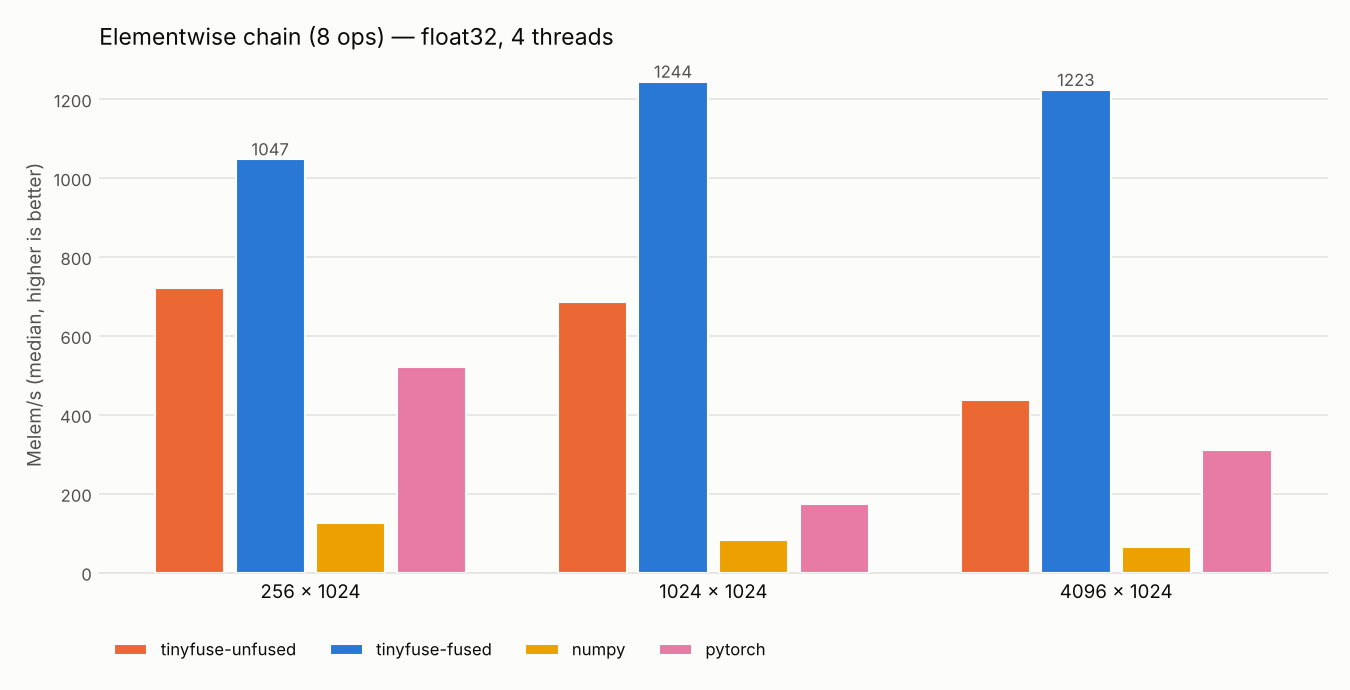
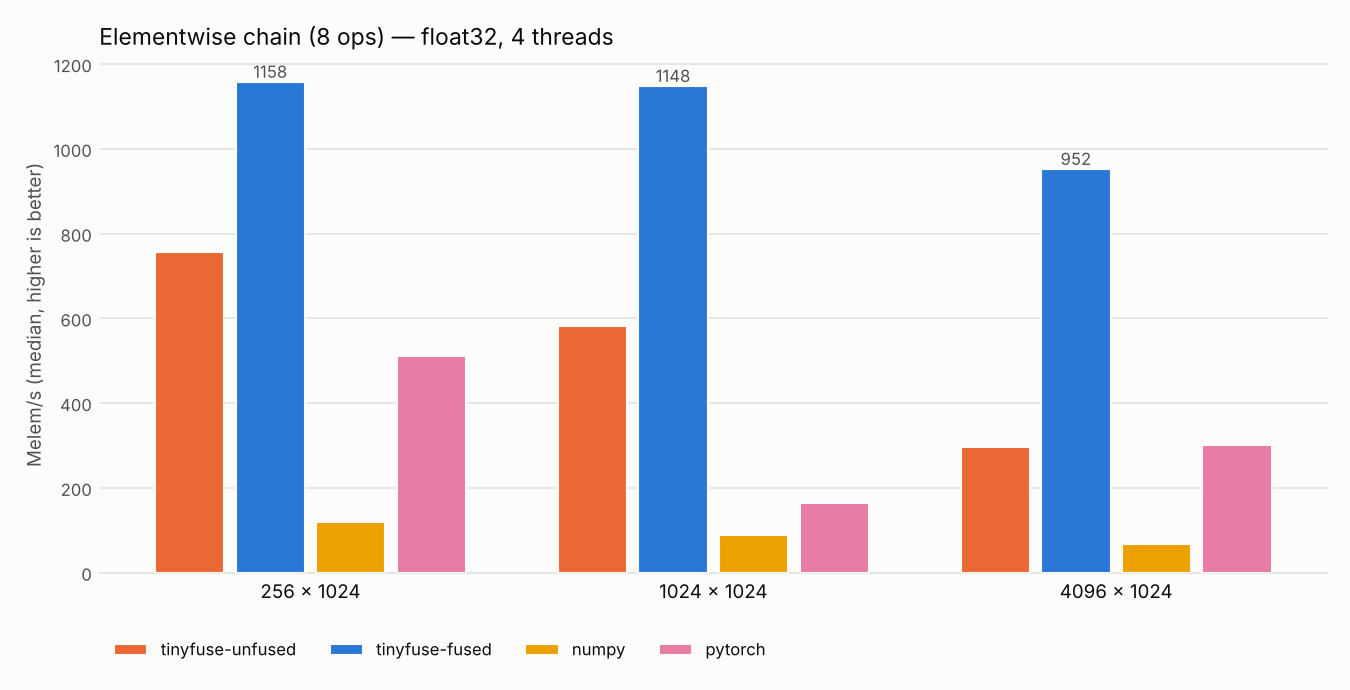
Refresh 4-thread benchmarks after parallel matmul rewrite; document it

diff --git a/README.md b/README.md
@@ -274,18 +274,18 @@ OpenBLAS and PyTorch's) kept fighting each other for the 4 cores.
 
 | ms per call, 4 threads | unfused | fused | fused+tuned | NumPy | PyTorch |
 |---|---:|---:|---:|---:|---:|
-| MLP 16 × 256→1024→256 | 0.191 | 0.173 | 0.173 | 0.206 | **0.096** |
-| MLP 64 × 512→2048→512 | 2.090 | 2.110 | 2.117 | 1.445 | **0.817** |
-| MLP 256 × 1024→4096→1024 | 15.81 | 16.22 | 16.51 | 16.71 | **9.80** |
-| Transformer seq 64, d 256 | 1.036 | 1.031 | 1.014 | 1.449 | **0.806** |
-| Transformer seq 128, d 512 | 5.148 | 4.615 | 5.264 | 8.553 | **3.133** |
-| Transformer seq 256, d 768 | 17.05 | 16.47 | 15.66 | 25.61 | **12.03** |
+| MLP 16 × 256→1024→256 | 0.163 | 0.151 | 0.129 | 0.196 | **0.101** |
+| MLP 64 × 512→2048→512 | 1.150 | 1.159 | 1.271 | 1.404 | **0.810** |
+| MLP 256 × 1024→4096→1024 | 14.93 | 15.09 | 14.12 | 17.30 | **10.84** |
+| Transformer seq 64, d 256 | 0.823 | **0.766** | 0.786 | 1.329 | 0.862 |
+| Transformer seq 128, d 512 | 3.810 | 3.811 | 4.345 | 8.669 | **2.865** |
+| Transformer seq 256, d 768 | 18.42 | 17.20 | 15.44 | 26.65 | **11.02** |
 
-Multithreaded, PyTorch wins every row, by 1.3 to 2.6 times. tinyfuse beats
-NumPy on five of the six rows (1.2 to 1.9 times), and loses on the medium MLP.
-Threading is the weakest part of the project; see [Limitations](#limitations).
-The 4-thread table was measured after layout folding was added and after a
-threading bug in single-loop elementwise kernels was fixed (see below).
+At 4 threads tinyfuse beats NumPy on every row (1.2 to 2.3 times) and beats
+PyTorch on the smallest transformer. PyTorch is ahead on the other five, by
+1.3 to 1.6 times. That gap used to be up to 2.6 times. Most of the
+improvement came from rewriting the parallel matmul so threads never wait on
+each other (see [Things that went wrong](#things-that-went-wrong-along-the-way)).
 
 ### An elementwise-heavy graph
 
@@ -346,8 +346,13 @@ library's idle threads kept spinning and stole cores from whichever library ran
 next. I switched to timing each variant in its own block.
 
 **The first parallel matmul was slower than the serial one** on small
-problems, because it started a new OpenMP team for every cache block. It now
-uses one parallel region per kernel, with per-thread packing.
+problems, because it started a new OpenMP team for every cache block. The
+second version used one parallel region per kernel but still had all threads
+pack B together and then wait at two barriers per block, and it scaled only
+1.35x on 4 cores for a 64-row matmul. The current version has no barriers at
+all. Each thread owns whole output blocks (a column block times a group of
+row blocks), packs its own panels, and runs the full K loop. On 4 cores it
+now scales 2.9x on that matmul and 3.4x on a 256×1024×4096 one.
 
 **Single-loop elementwise kernels ignored `parallel=True`.** The generator only
 parallelized the outer loop of a loop nest. A contiguous op like `gelu(h)`

diff --git a/DESIGN.md b/DESIGN.md
@@ -180,17 +180,23 @@ nothing.
     24 of the 32 zmm registers for accumulators. In measurements it was the most
     consistent across the benchmark shapes. The default AVX2 tile is `6×2`
     vectors. Tiles are clamped to the problem size.
-* **Threading (`parallel=True`).** The first version forked an OpenMP team for
-  every cache block, packed A on one thread, and split only the micro-tiles of
-  one block. At 4 threads that was often *slower* than 1 thread. The current
-  version opens **one parallel region per matmul kernel**. Inside it, B panels
-  are packed with `omp for`, and the work units are `(row block × B panel)`
-  pairs, distributed with `omp for collapse(2)`. Each thread packs A into its own
-  scratch slice (`max_threads` slices are reserved) and skips repacking while
-  consecutive units share a row block. Small-M problems still get parallelism
-  across N panels. Each unit's owner applies the epilogue to its own region.
-  Elementwise, softmax and layernorm kernels use `omp parallel for` on their
-  outer loop when the tensor has at least 32K elements.
+* **Threading (`parallel=True`).** The matmul went through three versions.
+  The first forked an OpenMP team for every cache block, and at 4 threads it
+  was often slower than at 1. The second used one region per kernel, but every
+  (N block, K block) step had all threads pack B together and then hit two
+  barriers. For small M there was too little compute between barriers: a
+  64×512×2048 matmul scaled 1.35× on 4 cores. The current version is
+  **barrier-free**. A work unit is (batch, column block, group of row blocks).
+  One thread computes a unit start to finish: it packs that unit's B panels
+  once per K block and reuses them across the row blocks in its group. It packs
+  A per row block into a private scratch slice, and applies the epilogue
+  itself. NB shrinks until there are at least 2 units per thread, and the
+  group size is the largest that keeps 2 units per thread. Measured on 4
+  cores: 2.9× scaling on 64×512×2048 and 3.4× on 256×1024×4096 (the latter
+  within about 20% of PyTorch/MKL). Elementwise, softmax, layernorm and
+  reduction kernels use `omp parallel for` on their outer loop, or
+  `omp parallel for simd` when the loop is 1-D, once the tensor has at least
+  32K elements.
 * **Softmax / LayerNorm.** These are row-wise kernels with `omp simd reduction`
   loops. Softmax subtracts the row max, which keeps it stable for large inputs
   (tested). The max starts at `-FLT_MAX`, not `-INFINITY`; see the fast-math note

diff --git a/docs/benchmarks_4t.md b/docs/benchmarks_4t.md
@@ -2,14 +2,14 @@
 
 | config | tinyfuse-unfused | tinyfuse-fused | tinyfuse-fused+tuned | numpy | pytorch |
 |---|---:|---:|---:|---:|---:|
-| batch=16 256→1024→256 | 0.191 (×1.08) | 0.173 (×1.19) | 0.173 (×1.19) | 0.206 (×1.00) | 0.097 (×2.13) |
-| batch=64 512→2048→512 | 2.090 (×0.69) | 2.110 (×0.69) | 2.117 (×0.68) | 1.445 (×1.00) | 0.817 (×1.77) |
-| batch=256 1024→4096→1024 | 15.812 (×1.06) | 16.223 (×1.03) | 16.509 (×1.01) | 16.715 (×1.00) | 9.798 (×1.71) |
+| batch=16 256→1024→256 | 0.163 (×1.21) | 0.151 (×1.30) | 0.129 (×1.52) | 0.196 (×1.00) | 0.101 (×1.94) |
+| batch=64 512→2048→512 | 1.150 (×1.22) | 1.159 (×1.21) | 1.271 (×1.10) | 1.405 (×1.00) | 0.810 (×1.73) |
+| batch=256 1024→4096→1024 | 14.926 (×1.16) | 15.088 (×1.15) | 14.123 (×1.23) | 17.302 (×1.00) | 10.836 (×1.60) |
 
 **transformer** — median ms per call (speedup vs NumPy)
 
 | config | tinyfuse-unfused | tinyfuse-fused | tinyfuse-fused+tuned | numpy | pytorch |
 |---|---:|---:|---:|---:|---:|
-| seq=64 d=256 h=4 ff=1024 | 1.036 (×1.40) | 1.031 (×1.41) | 1.014 (×1.43) | 1.449 (×1.00) | 0.806 (×1.80) |
-| seq=128 d=512 h=8 ff=2048 | 5.148 (×1.66) | 4.615 (×1.85) | 5.264 (×1.62) | 8.553 (×1.00) | 3.134 (×2.73) |
-| seq=256 d=768 h=12 ff=3072 | 17.051 (×1.50) | 16.470 (×1.55) | 15.659 (×1.64) | 25.608 (×1.00) | 12.031 (×2.13) |
+| seq=64 d=256 h=4 ff=1024 | 0.823 (×1.61) | 0.766 (×1.74) | 0.786 (×1.69) | 1.329 (×1.00) | 0.862 (×1.54) |
+| seq=128 d=512 h=8 ff=2048 | 3.810 (×2.27) | 3.812 (×2.27) | 4.345 (×2.00) | 8.669 (×1.00) | 2.865 (×3.03) |
+| seq=256 d=768 h=12 ff=3072 | 18.420 (×1.45) | 17.197 (×1.55) | 15.440 (×1.73) | 26.646 (×1.00) | 11.020 (×2.42) |

diff --git a/docs/benchmarks_ew_4t.md b/docs/benchmarks_ew_4t.md
@@ -2,6 +2,6 @@
 
 | config | tinyfuse-unfused | tinyfuse-fused | numpy | pytorch |
 |---|---:|---:|---:|---:|
-| 256 x 1024 | 0.363 (×5.76) | 0.250 (×8.36) | 2.093 (×1.00) | 0.502 (×4.17) |
-| 1024 x 1024 | 1.530 (×8.37) | 0.843 (×15.20) | 12.814 (×1.00) | 6.076 (×2.11) |
-| 4096 x 1024 | 9.613 (×6.79) | 3.429 (×19.04) | 65.293 (×1.00) | 13.505 (×4.83) |
+| 256 x 1024 | 0.346 (×6.34) | 0.226 (×9.70) | 2.196 (×1.00) | 0.512 (×4.29) |
+| 1024 x 1024 | 1.806 (×6.49) | 0.913 (×12.83) | 11.714 (×1.00) | 6.408 (×1.83) |
+| 4096 x 1024 | 14.177 (×4.36) | 4.404 (×14.03) | 61.790 (×1.00) | 13.982 (×4.42) |
